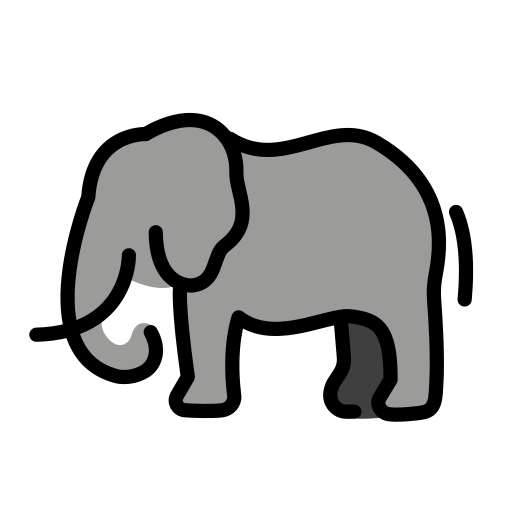
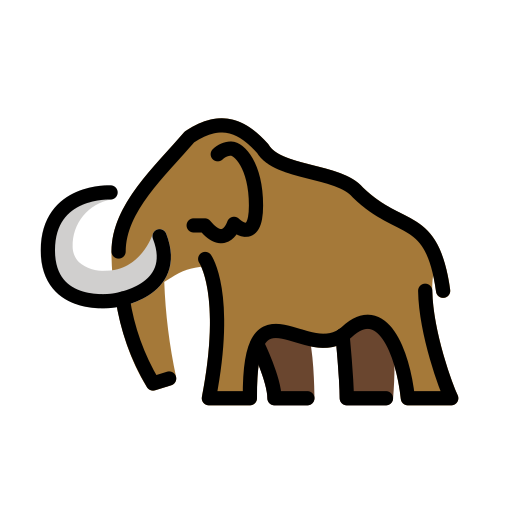
🐘 → 🦣

diff --git a/src/components/layout.tsx b/src/components/layout.tsx
@@ -26,7 +26,7 @@ export default function Layout({ children }: { children: ReactElement }) {
 				<Container>
 					<NextLink href="/">
 						<Heading as="h1" size="lg">
-							🔝🐘 {appName}
+							🔝🦣 {appName}
 						</Heading>
 					</NextLink>
 				</Container>

diff --git a/README.md b/README.md
@@ -1,4 +1,4 @@
-# [🔝🐘 Top Mastodon Posts](http://www.topmastodonposts.com/)
+# [🔝🦣 Top Mastodon Posts](http://www.topmastodonposts.com/)
 
 See a Mastodon account&rsquo;s most-favo(u)rited posts
 
